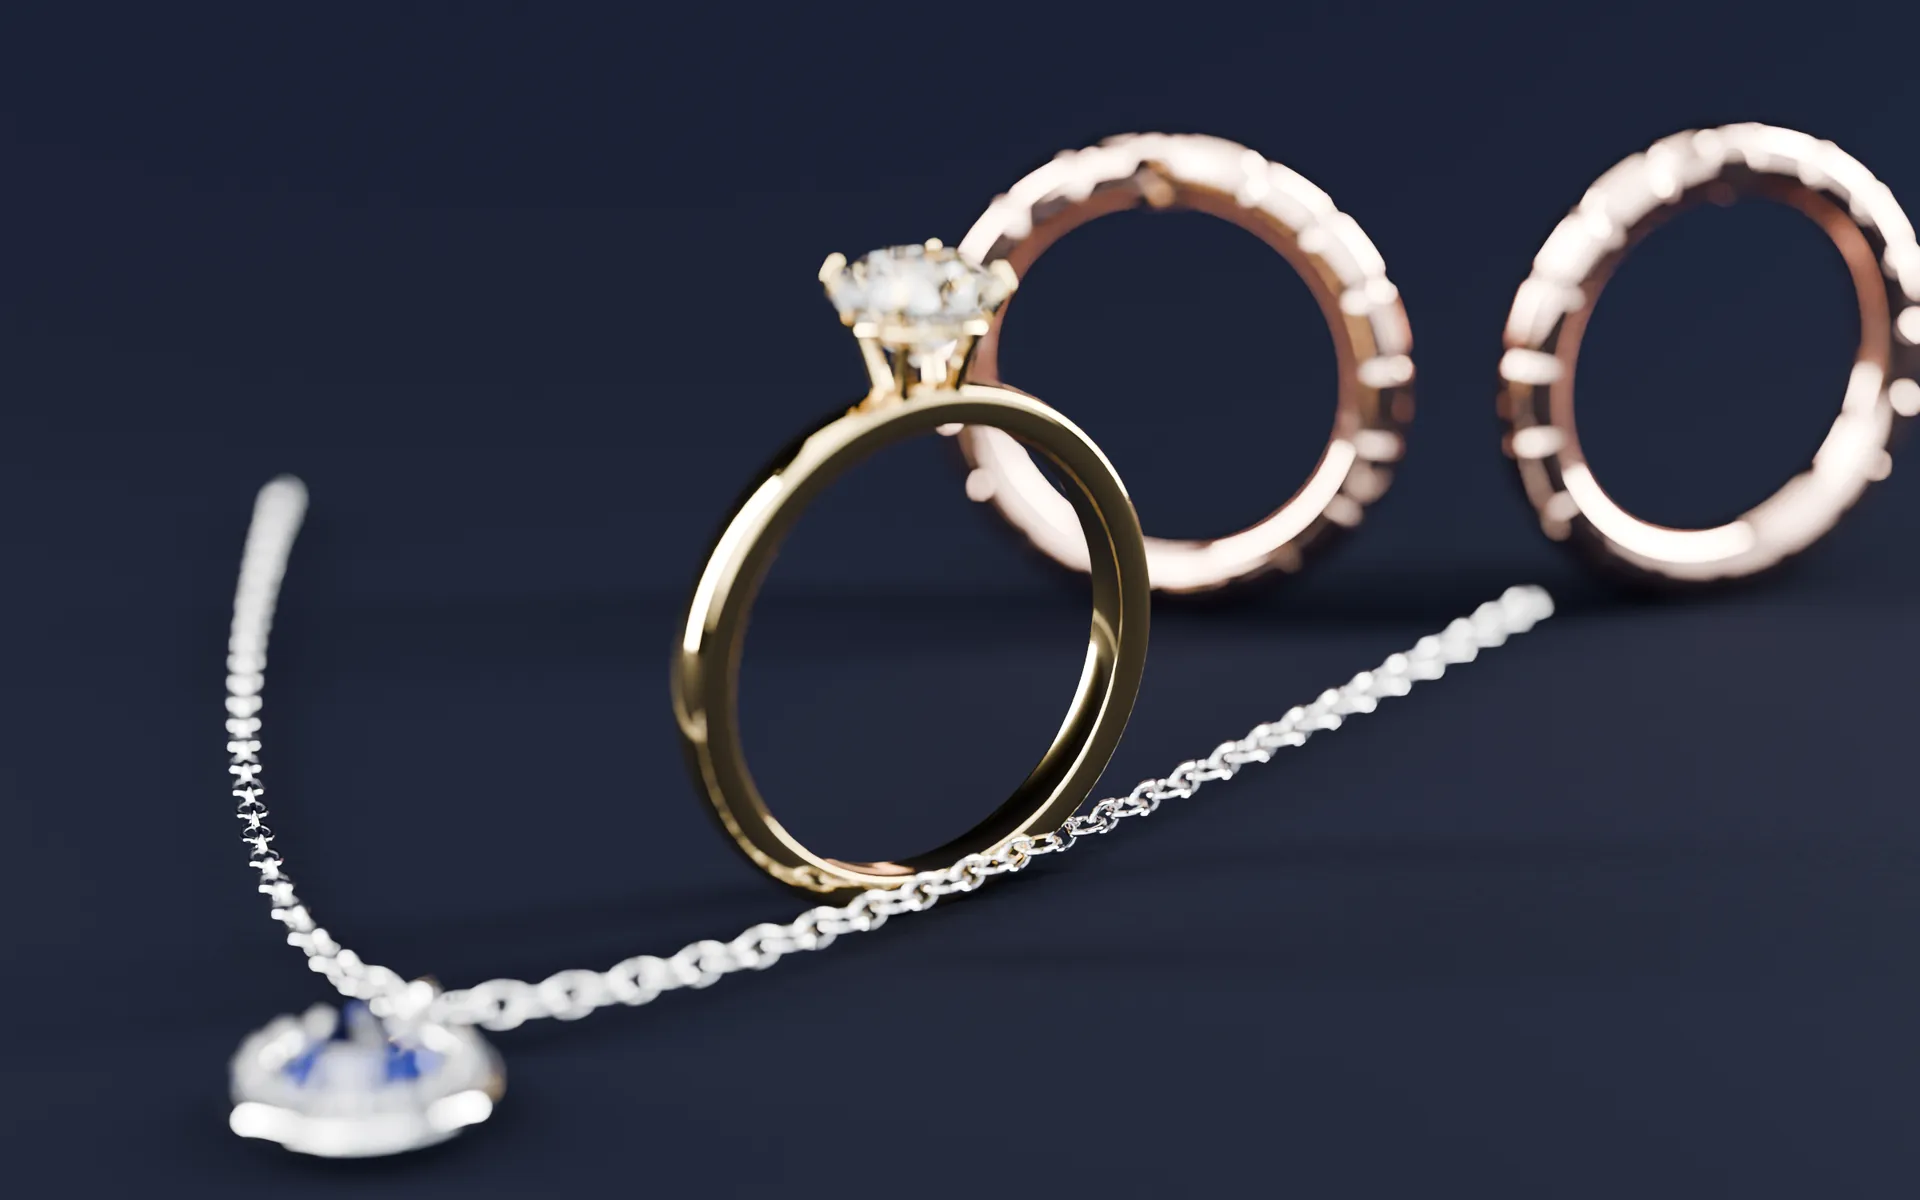
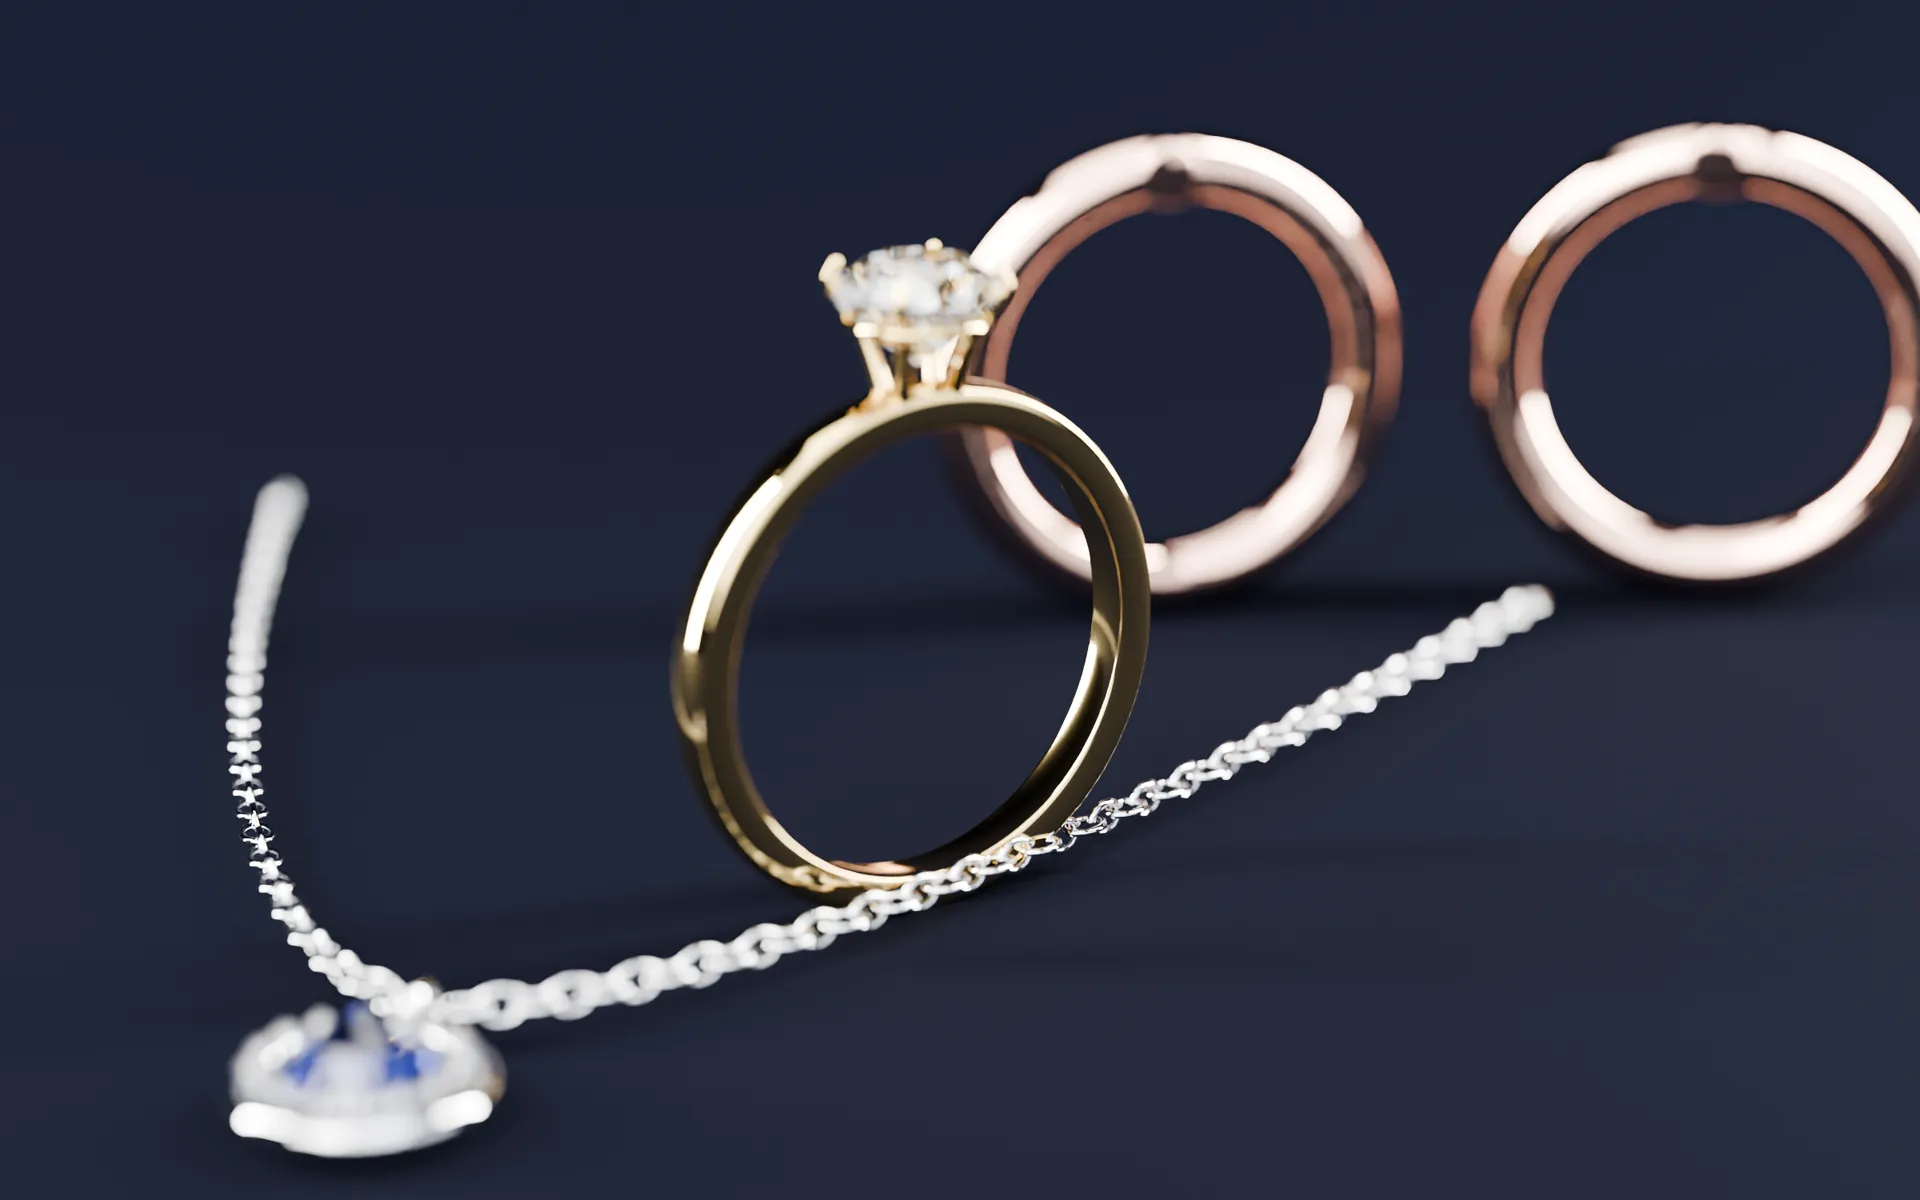
SERAVEL: hoops as one smooth tube with fine line grooves
The hoop is one continuous round tube. Each of 28 grooves is a shallow narrow
rounded line on the front face, so the outline stays a circle. The hoops photo
has both hoops inside the frame with 13 percent margin. In the hero the hoops
are out of focus and render smooth.

Claude-Session: https://claude.ai/code/session_018BGEB6D8wuTAowK1UCa7K5

Changed region(s): [[0.4688, 0.0925, 1.0, 0.4933], [0.4375, 0.7092, 0.4688, 0.74]]

diff --git a/blender/seravel_jewelry.py b/blender/seravel_jewelry.py
@@ -18,7 +18,7 @@ from mathutils import Matrix, Vector
 sys.path.insert(0, os.path.dirname(__file__))
 import common as C  # noqa: E402
 
-LOD = {'high': dict(seg=160, prof=10, sub=2, tube=48, curve=6, link=(14, 8), hoop=(1440, 64)),
+LOD = {'high': dict(seg=160, prof=10, sub=2, tube=48, curve=6, link=(14, 8), hoop=(2800, 72)),
        'low': dict(seg=72, prof=6, sub=1, tube=20, curve=3, link=(8, 5), hoop=(240, 14))}
 
 RING_R = 0.00865      # inner radius, US size 7 (17.3 mm)
@@ -224,14 +224,14 @@ def pendant(lod='high', m=None):
 
 
 # --- Hoops -------------------------------------------------------------------------------------------------------
-def hoop(lod='high', m=None, R=0.0095, name='hoop'):
+def hoop(lod='high', m=None, R=0.0095, name='hoop', grooves=True):
     """A polished hollow hoop: an oval tube with evenly spaced wave flutes that twist along it, closed with a hinged
     clasp at the top (a hinge knuckle on one end, a post on the other that clicks into a catch)."""
     p = LOD[lod]
     m = m or mats()
     nu, nv = p['hoop']
     tube = 0.00155
-    flutes = 18                  # grooves around the hoop
+    flutes = 28                  # grooves around the hoop
     half = 0.17                  # half the groove width, as a share of one flute period
     gap = 0.11                   # opening at the top for the clasp
     bm = bmesh.new()
@@ -245,14 +245,14 @@ def hoop(lod='high', m=None, R=0.0095, name='hoop'):
         row = []
         for j in range(nv):
             ph = (j / nv) * math.tau
-            # The tube is perfectly round. Grooves are cut only where a flute sits: a narrow rounded channel,
-            # full depth on the outer face and fading out toward the sides. Between grooves the tube is untouched.
+            # One continuous round tube. Each flute is a shallow, narrow rounded line cut into it: about 6 % of the tube
+            # radius deep and 8 % of a flute period wide. The outline stays a circle because the grooves sit only on
+            # the front face, which is the face seen from the side.
             f = (t * flutes) % 1.0
-            dist = min(f, 1 - f) / half           # 0 at the groove center, 1 at its edge
+            dist = min(f, 1 - f) / 0.04
             g = 0.5 + 0.5 * math.cos(math.pi * dist) if dist < 1 else 0.0
-            c = min(1.0, max(0.0, (math.cos(ph) + 0.45) / 0.9))
-            face = c * c * (3 - 2 * c)            # front, back and outer faces. The inside against the ear stays smooth.
-            rr = tube * (1 - 0.16 * g * face * ends)
+            face = max(0.0, -math.sin(ph)) ** 2   # the front face toward the camera (-Y)
+            rr = tube * (1 - 0.06 * g * face * ends * (1 if grooves else 0))
             pos = cen + nrm * (math.cos(ph) * rr) + Vector((0, 1, 0)) * (math.sin(ph) * rr)
             row.append(bm.verts.new(pos))
         grid.append(row)

diff --git a/blender/seravel_photos.py b/blender/seravel_photos.py
@@ -176,13 +176,13 @@ def build_pendant(metal, stone, loc=(0, 0, 0), turn=0):
     return place(o, (loc[0], loc[1], loc[2] + 0.0019), (math.radians(-90), 0, math.radians(turn)))
 
 
-def build_hoops(metal, loc=(0, 0, 0), size='Small'):
+def build_hoops(metal, loc=(0, 0, 0), size='Small', turn=18, grooves=True):
     R = 0.0095 if size == 'Small' else 0.0118
     m = mats_for(metal, 'Diamond')
-    a = J.hoop('high', m, R, 'hoopA')
-    b = J.hoop('high', m, R, 'hoopB')
-    place(a, (loc[0] - 0.0125, loc[1], loc[2] + R + 0.0016), (0, 0, math.radians(-18)))
-    place(b, (loc[0] + 0.0125, loc[1], loc[2] + R + 0.0016), (0, 0, math.radians(18)))
+    a = J.hoop('high', m, R, 'hoopA', grooves)
+    b = J.hoop('high', m, R, 'hoopB', grooves)
+    place(a, (loc[0] - 0.0125, loc[1], loc[2] + R + 0.0016), (0, 0, math.radians(-turn)))
+    place(b, (loc[0] + 0.0125, loc[1], loc[2] + R + 0.0016), (0, 0, math.radians(turn)))
 
 
 # --- Extra scenes ------------------------------------------------------------------------------------------------
@@ -353,7 +353,7 @@ def main():
     elif mode == 'hero':
         build_ring('Yellow gold', 'Diamond', (0.014, 0.0, 0), 30)
         build_pendant('White gold', 'Sapphire', (-0.006, -0.018, 0), -20)
-        build_hoops('Rose gold', (0.04, 0.034, 0))
+        build_hoops('Rose gold', (0.04, 0.034, 0), turn=-12, grooves=False)  # out of focus here: fine grooves would only read as dots
         camera((0.004, -0.15, 0.062), (0.016, 0.006, 0.01), 80, 11)
         render_settings(int(a.get('w', 2400)), int(a.get('h', 1500)), samples)
     else:
@@ -369,7 +369,7 @@ def main():
             camera((0.0, -0.11, 0.06), (0, 0.006, 0.002), 100, 8.0)
         else:
             build_hoops(metal, size=a.get('size', 'Small'))
-            camera((0.0, -0.13, 0.05), (0.0, 0.0, 0.0115), 90, 16.0)
+            camera((0.0, -0.185, 0.055), (0.0, 0.0, 0.0115), 90, 16.0)
         render_settings(int(a.get('w', 900)), int(a.get('h', 1125)), samples)
     out = os.path.abspath(a['out'])
     os.makedirs(os.path.dirname(out), exist_ok=True)
